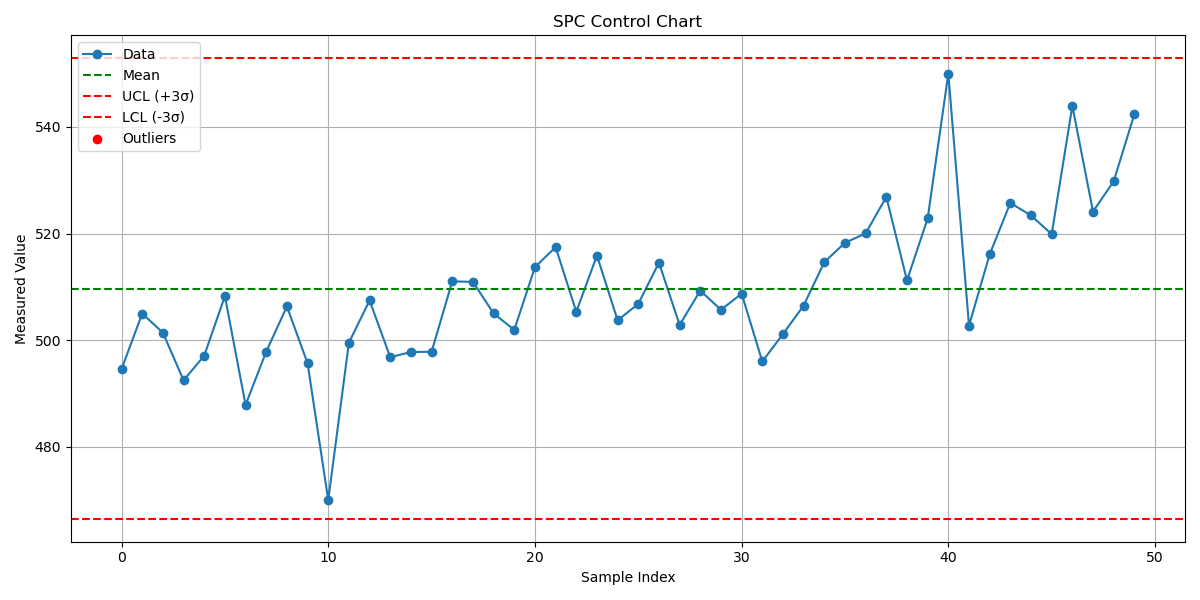
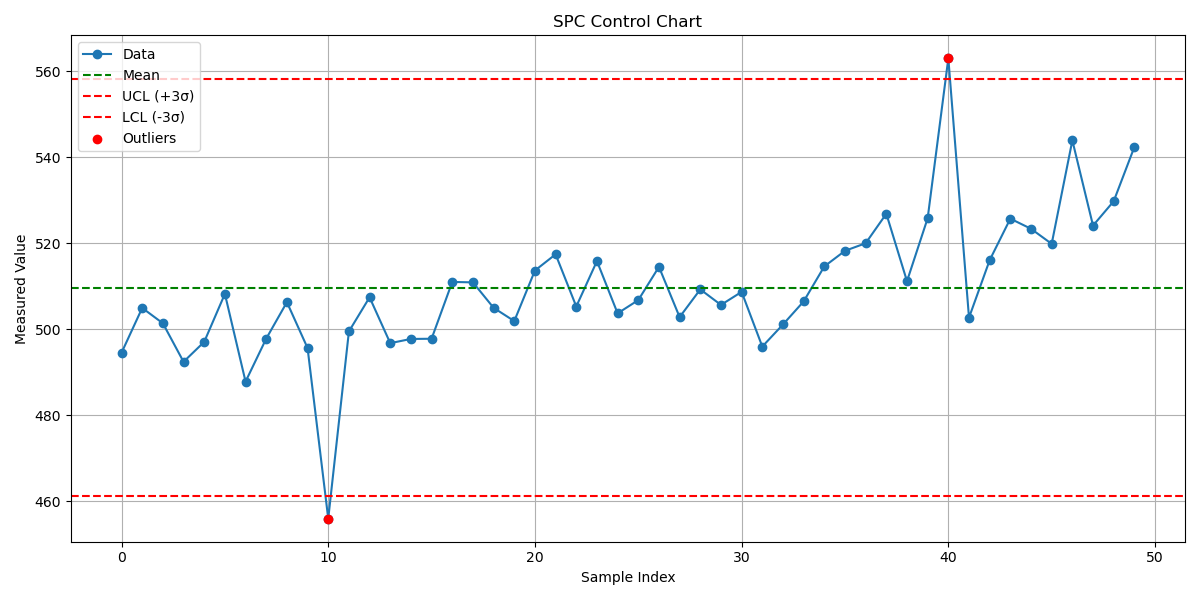
updated example data with outliers, add readme

diff --git a/case_studies/spc_summary_tool/README.md b/case_studies/spc_summary_tool/README.md
@@ -1,0 +1,87 @@
+# SPC Summary Tool – Case Study
+
+This Python tool performs basic statistical process control (SPC) analysis on numeric manufacturing or lab process data. It loads a CSV or Excel file, calculates control limits, flags outliers, and saves a control chart and annotated output file — all in a clean, reproducible, and modular way.
+
+---
+
+## Use Case
+
+This script is ideal for scenarios where a process engineer, MSAT scientist, or systems integrator needs to:
+- Quickly evaluate in-line data for drift, instability, or outliers
+- Flag batches for investigation
+- Generate visual SPC outputs with minimal manual handling
+
+Designed to reflect real-world manufacturing scenarios such as:
+- Wafer-level thickness or film uniformity (semiconductor)
+- Assay yield, cell viability, or bioreactor pH (biotech/pharma)
+- Any process metric tracked over time or batch
+
+---
+
+## How to Run
+
+1. Install requirements:
+   pip install -r requirements.txt
+
+2. Update the file_path and value_column in spc_runner.py:
+   # Use raw string for Windows paths:
+   file_path = r'C:\Users\yourname\yourdata.csv'
+   value_column = 'Thickness_nm'
+
+3. Run the script:
+   python spc_runner.py
+
+4. Outputs will be saved in the same folder as the script:
+   - output_chart.png — Control chart with UCL, LCL, mean, and flagged outliers
+   - flagged_data.csv — Data with outlier column added
+
+---
+
+## Features
+
+- Summary statistics: mean, std, min, max, UCL/LCL
+- Z-score or IQR-based outlier detection
+- Control chart generation with matplotlib
+- Self-contained outputs saved next to script
+- Human-readable code with educational comments
+- MATLAB-to-Python transitions explained in code
+
+---
+
+## Why This Project?
+
+As an engineer with a background in process development and system-level thinking, I built this tool to demonstrate:
+- Clean, production-aware scripting
+- Modular, maintainable Python workflows
+- Thoughtful integration of statistical analysis with real-world application
+- Ability to build tools that others can use, modify, and trust
+
+This tool is not intended to replace enterprise-scale SPC platforms, but to show that I understand how statistical control systems work and can design lightweight, engineer-friendly solutions — especially valuable in fast-growing or early-stage environments.
+
+---
+
+## Example Dataset
+
+The included example_data_with_drift.csv simulates:
+- A stable process phase
+- A gradual drift in the mean
+- Increased variability
+- Injected outliers
+
+This reflects the kind of signal an engineer might use SPC tools to detect before yield drops or a failure occurs.
+
+---
+
+## SPC Chart Preview
+
+![SPC Control Chart](output_chart.png)
+
+---
+
+## Future Enhancements
+
+- Add command-line interface (CLI) for dynamic inputs
+- Integrate Western Electric rules
+- Automate monitoring on live process feeds
+
+---
